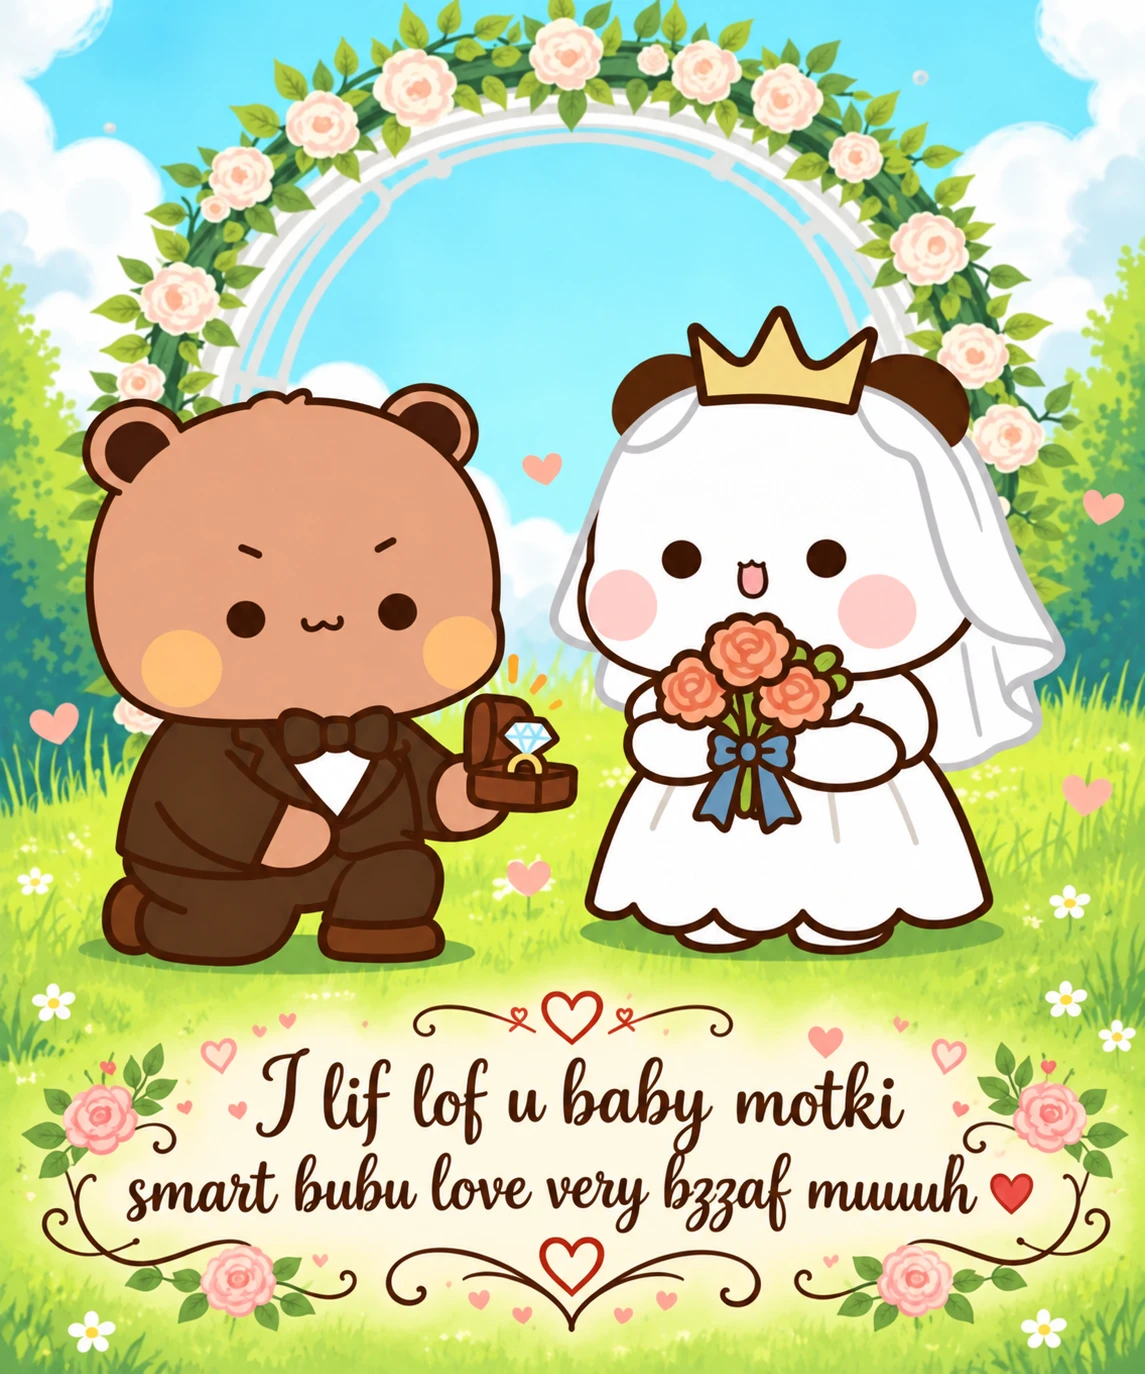
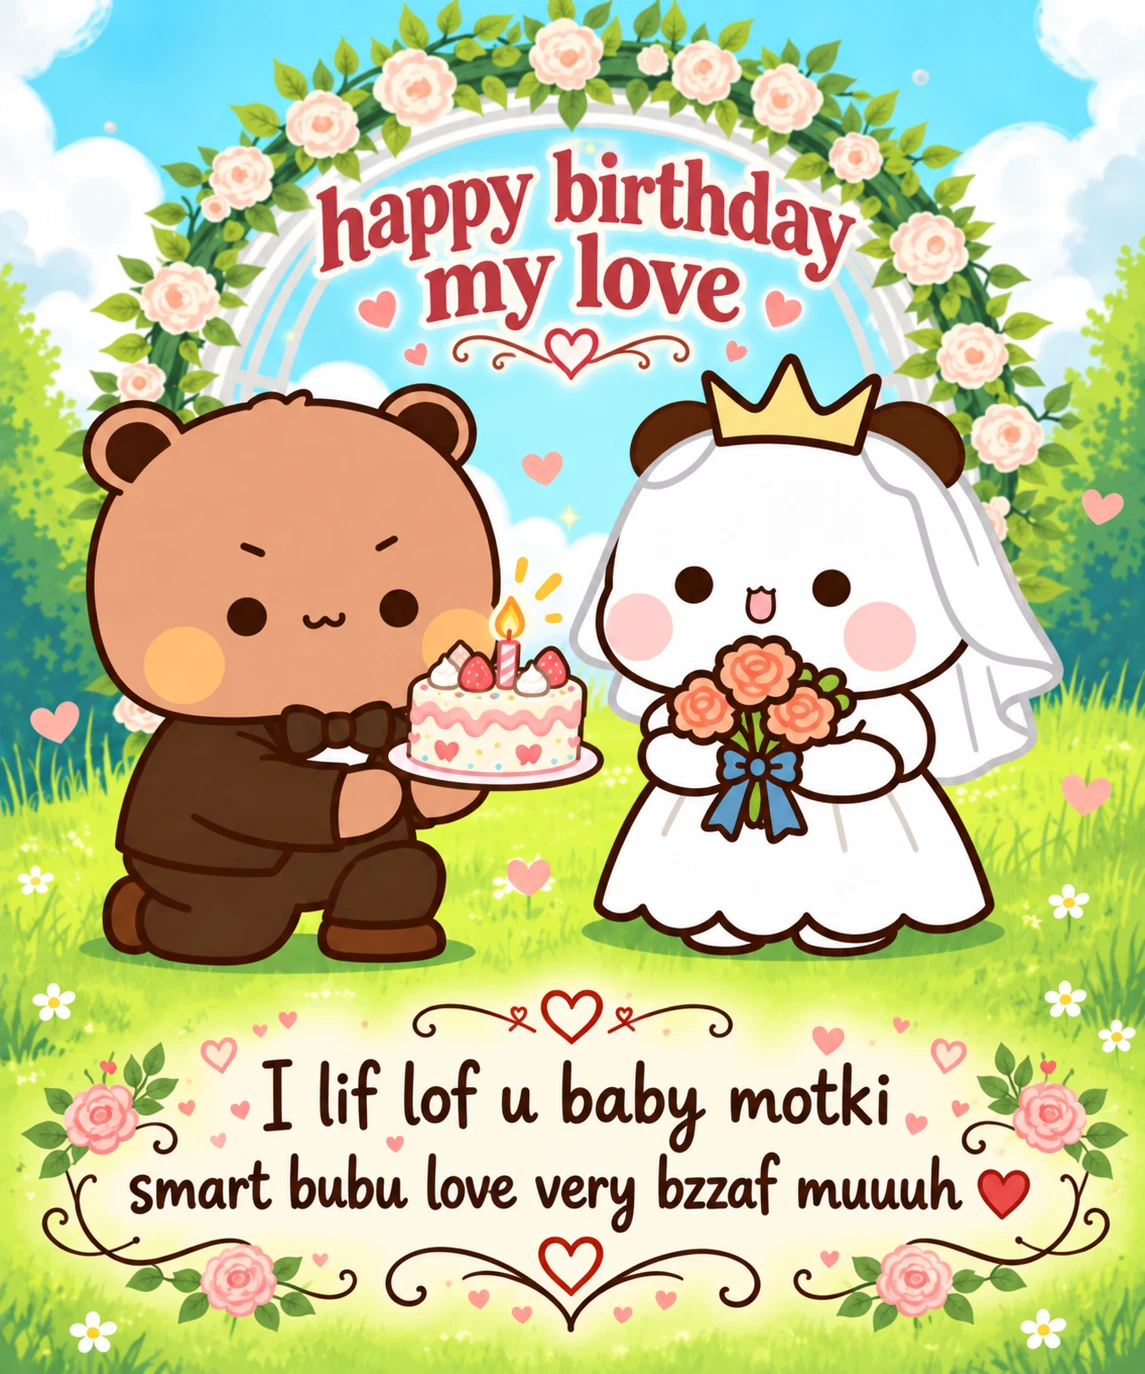
Use birthday cake picture in the final pop-up

diff --git a/index.html b/index.html
@@ -97,7 +97,7 @@
         </svg>
       </button>
       <div class="memory finale-frame">
-        <img src="images/forever.webp" alt="Dudu kneeling with a ring before Bubu in her wedding dress, with the words: I lif lof u baby motki, smart bubu love very bzzaf muuh" width="1145" height="1374" decoding="async" />
+        <img src="images/forever.webp" alt="Dudu kneeling with a birthday cake before Bubu in her wedding dress, under the words happy birthday my love, and: I lif lof u baby motki, smart bubu love very bzzaf muuh" width="1145" height="1374" decoding="async" />
       </div>
       <figcaption class="forever-caption">
         <span class="forever-words">My eternal love</span>
